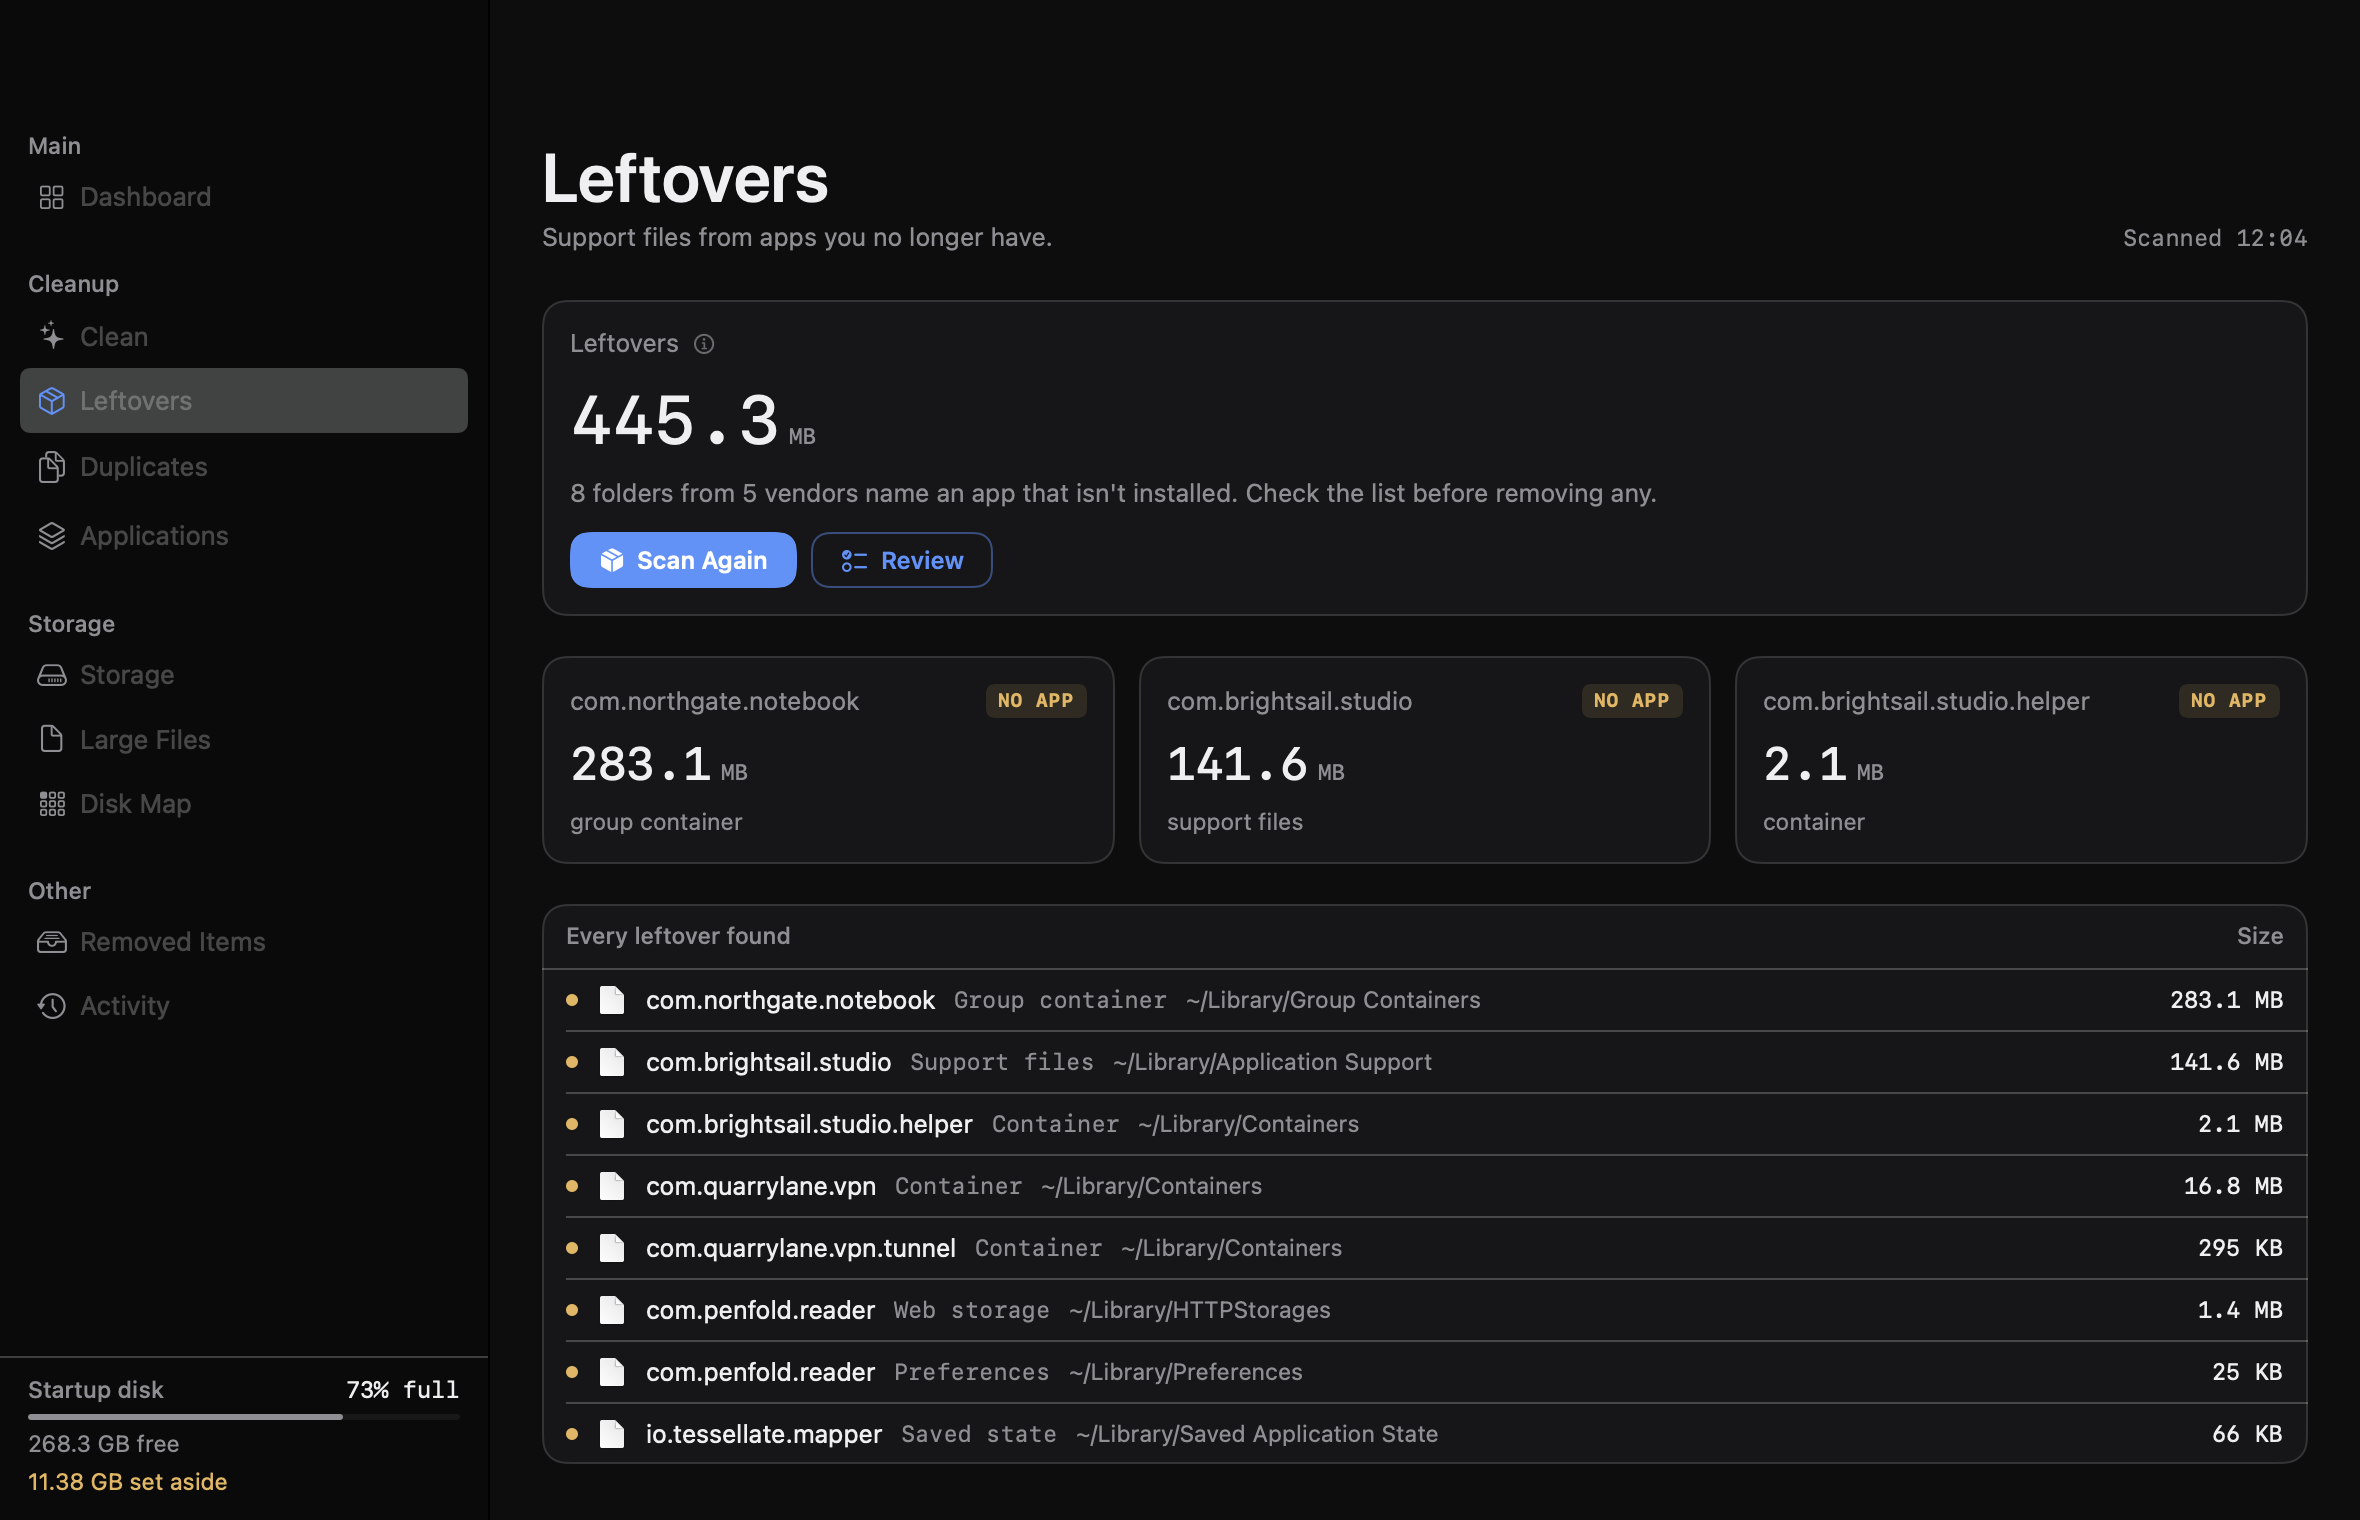
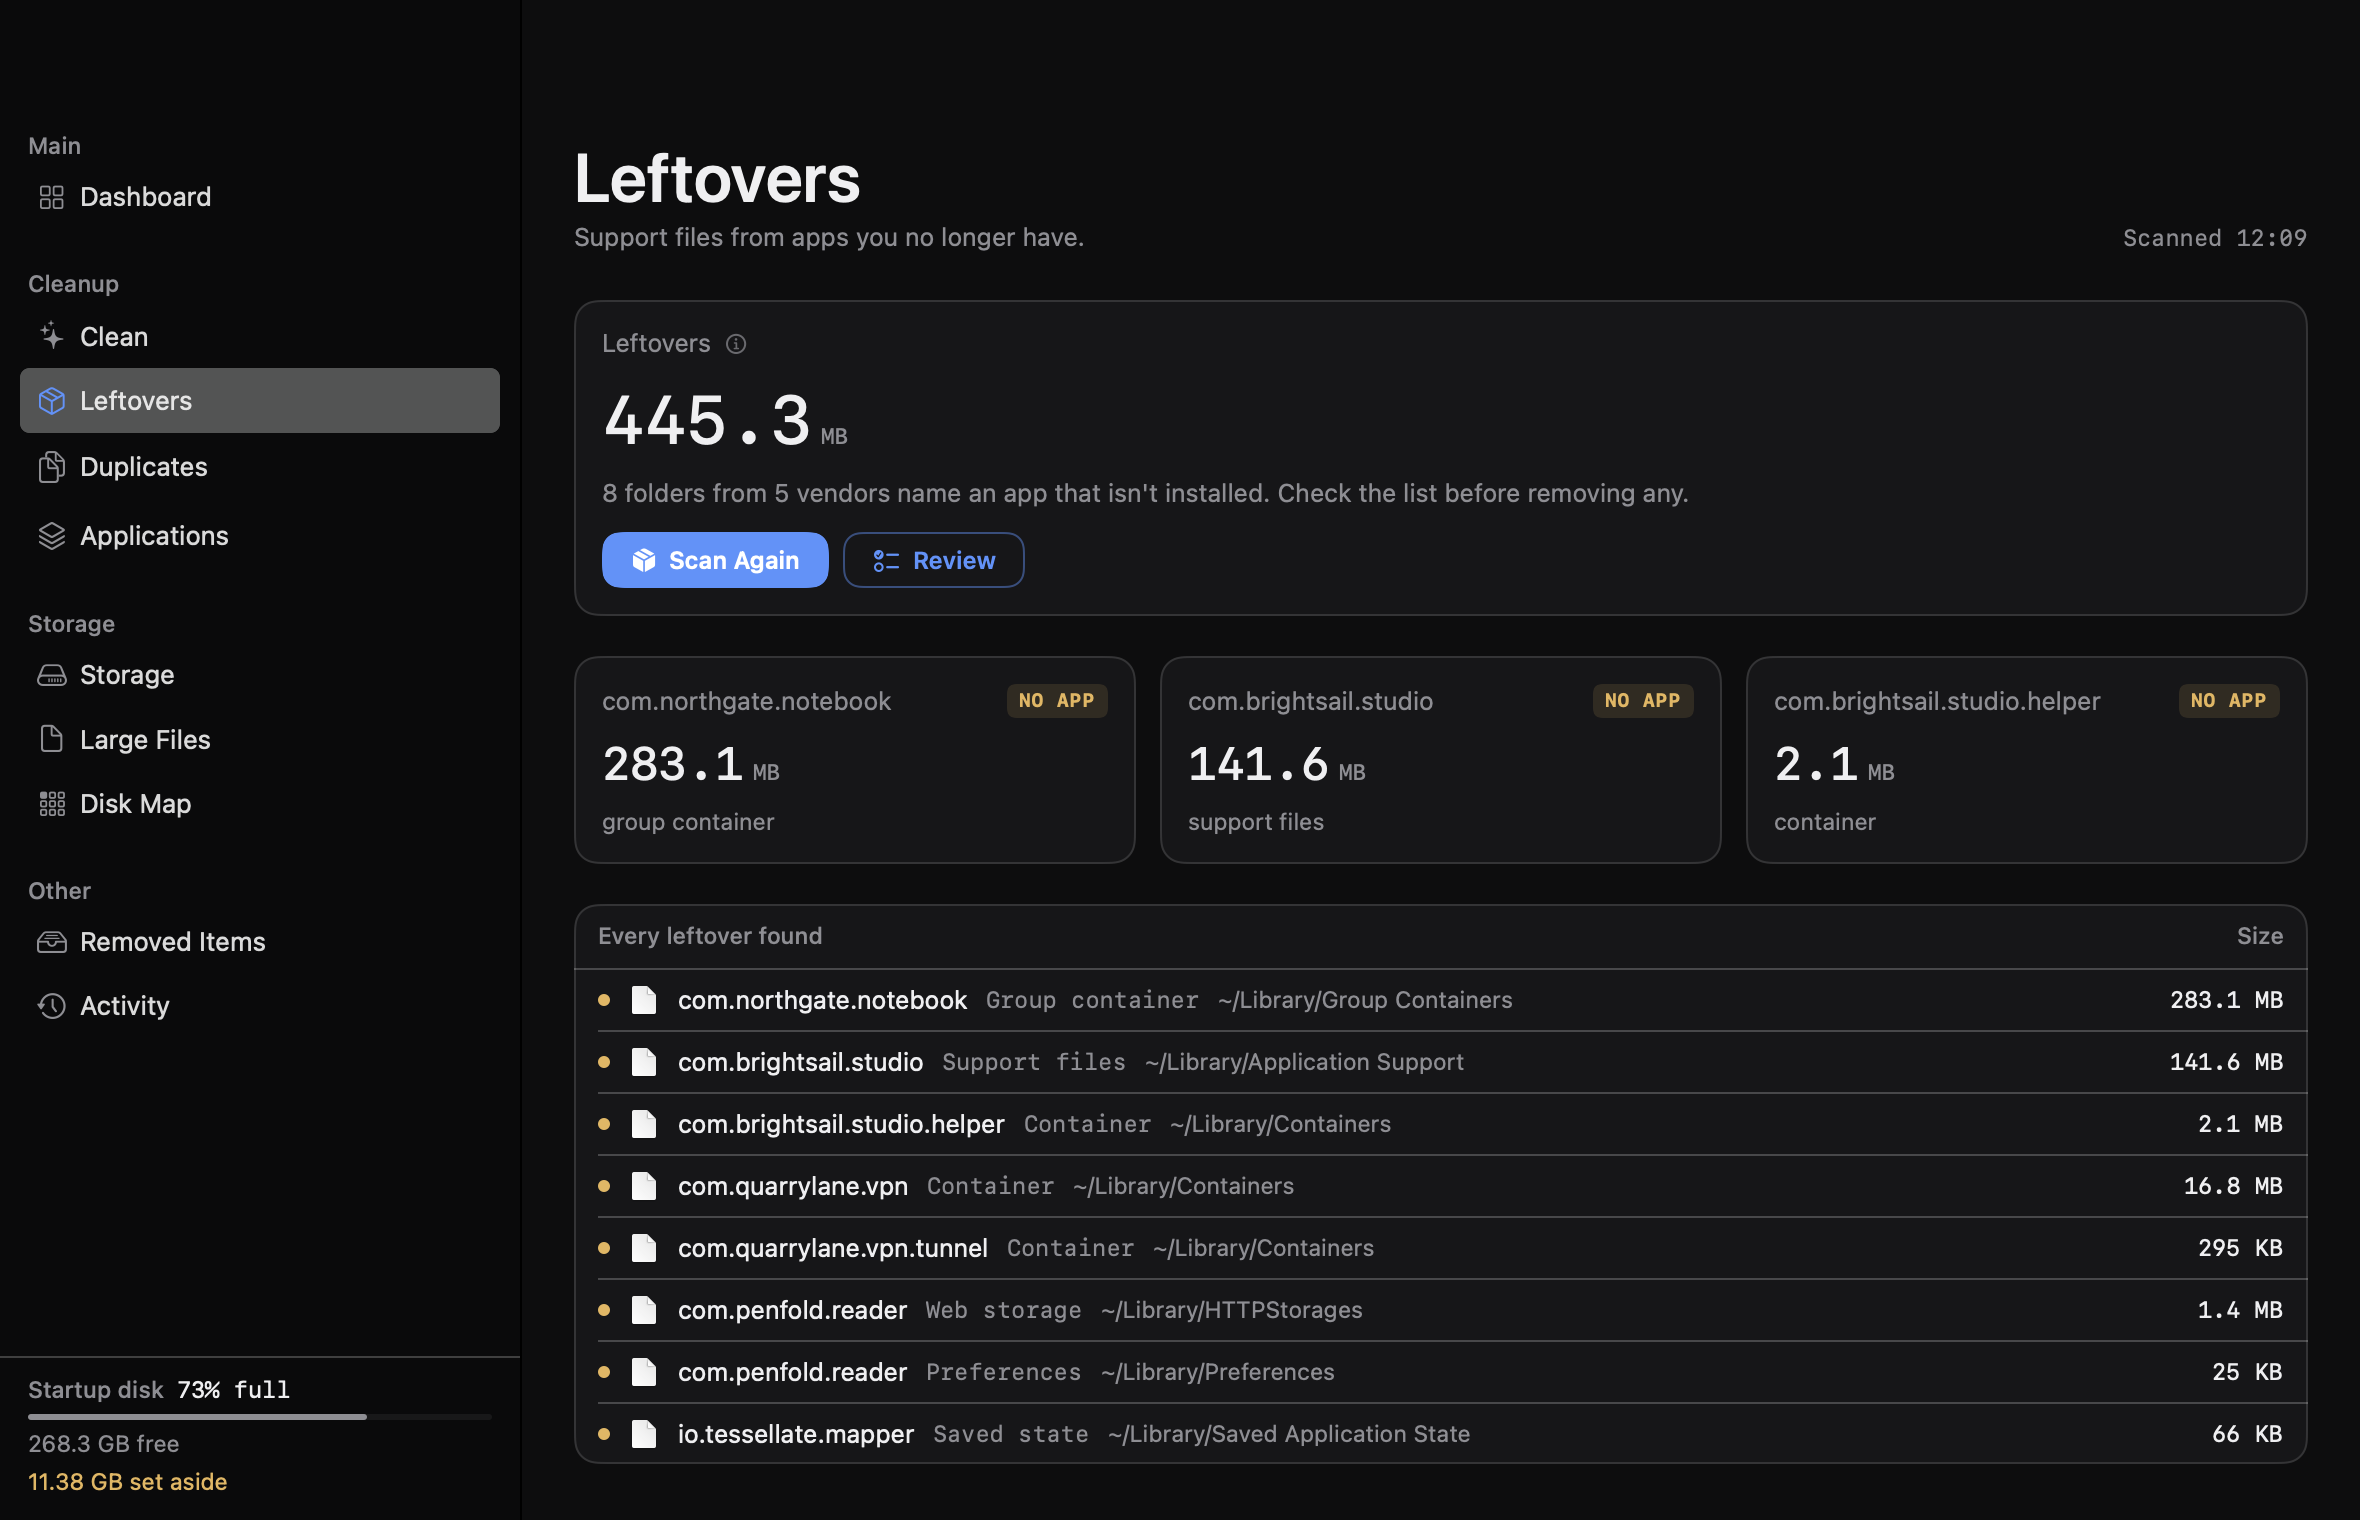
Hold the sidebar open at a width that was actually measured
KivoMetrics.sidebarWidth said 156. The column drew 244pt, at every
window size from 1000 to 1440 wide — the ideal width is a request
AppKit is free to decline, and it had been declining it since the
constant was written. Only the minimum holds a column open, so the
minimum is now the constant, and the sidebar measures 260pt at every
window size instead of whatever AppKit felt like.

The footer's disk line was the thing that made it feel packed: a Spacer
between "Startup disk" and "73% full" stretched them to opposite edges,
so the widest row in the column ran from gutter to gutter. They sit
together now and read as one phrase.

Measured after the change at 1000x660 and 1440x900: 260pt both times.

diff --git a/kivo/UI/Navigation.swift b/kivo/UI/Navigation.swift
@@ -188,13 +188,15 @@ private struct SidebarFooter: View {
                 // disk that is 73% full announced itself as 73% clear.
                 // The health is in the colour of the figure and the bar
                 // under it, which is where a one-word verdict belongs.
+                // One phrase, not two halves shoved to opposite edges.
+                // With a Spacer between them the line stretched the full
+                // width of the column and made it feel packed, which is
+                // the opposite of what a quiet footer should do.
                 HStack(spacing: 6) {
 
                     Text("Startup disk")
                         .font(.system(size: 11.5, weight: .medium))
                         .foregroundStyle(Color.kivoDim)
-
-                    Spacer(minLength: 6)
 
                     if let volume {
                         Text("\(Int(volume.fraction * 100))% full")
@@ -203,6 +205,8 @@ private struct SidebarFooter: View {
                                 status == .good ? Color.kivoText : status.tint
                             )
                     }
+
+                    Spacer(minLength: 0)
                 }
 
                 if let volume {

diff --git a/kivo/Core/DemoData.swift b/kivo/Core/DemoData.swift
@@ -244,7 +244,15 @@ enum DemoMode {
             // One size for every screenshot, whatever frame the last
             // session left behind, so the README's pictures line up
             // instead of each being whatever the window happened to be.
-            window.setContentSize(NSSize(width: 1180, height: 760))
+            let size = ProcessInfo.processInfo.environment["KIVO_SHOT_SIZE"]?
+                .split(separator: "x")
+                .compactMap { Double($0) }
+
+            window.setContentSize(
+                size?.count == 2
+                    ? NSSize(width: size![0], height: size![1])
+                    : NSSize(width: 1180, height: 760)
+            )
             window.makeKeyAndOrderFront(nil)
 
             // One more beat, for the page transition and the app icons.

diff --git a/kivo/UI/KivoTheme.swift b/kivo/UI/KivoTheme.swift
@@ -105,7 +105,12 @@ enum KivoMetrics {
     /// with the short wording the floor is the "Removed Items" row at
     /// 137pt, and 156 gives that room without the column taking space the
     /// content has no use for.
-    static let sidebarWidth: CGFloat = 156
+    /// Measured, not guessed. The ideal width is a request AppKit can
+    /// decline — it drew 244pt at every window size while this constant
+    /// said 156 — so the minimum is what actually holds the column open.
+    /// 260 leaves the longest row, "Removed Items", and the footer's
+    /// disk line clear of both edges instead of pressed against them.
+    static let sidebarWidth: CGFloat = 260
 }
 
 // MARK: - Typography

diff --git a/kivo/UI/ContentView.swift b/kivo/UI/ContentView.swift
@@ -34,7 +34,7 @@ struct ContentView: View {
             // to the sidebar view, or a modifier wrapping it swallows the
             // preference and the column falls back to AppKit's minimum.
             .navigationSplitViewColumnWidth(
-                min: 144,
+                min: KivoMetrics.sidebarWidth,
                 ideal: KivoMetrics.sidebarWidth,
                 max: 320
             )
